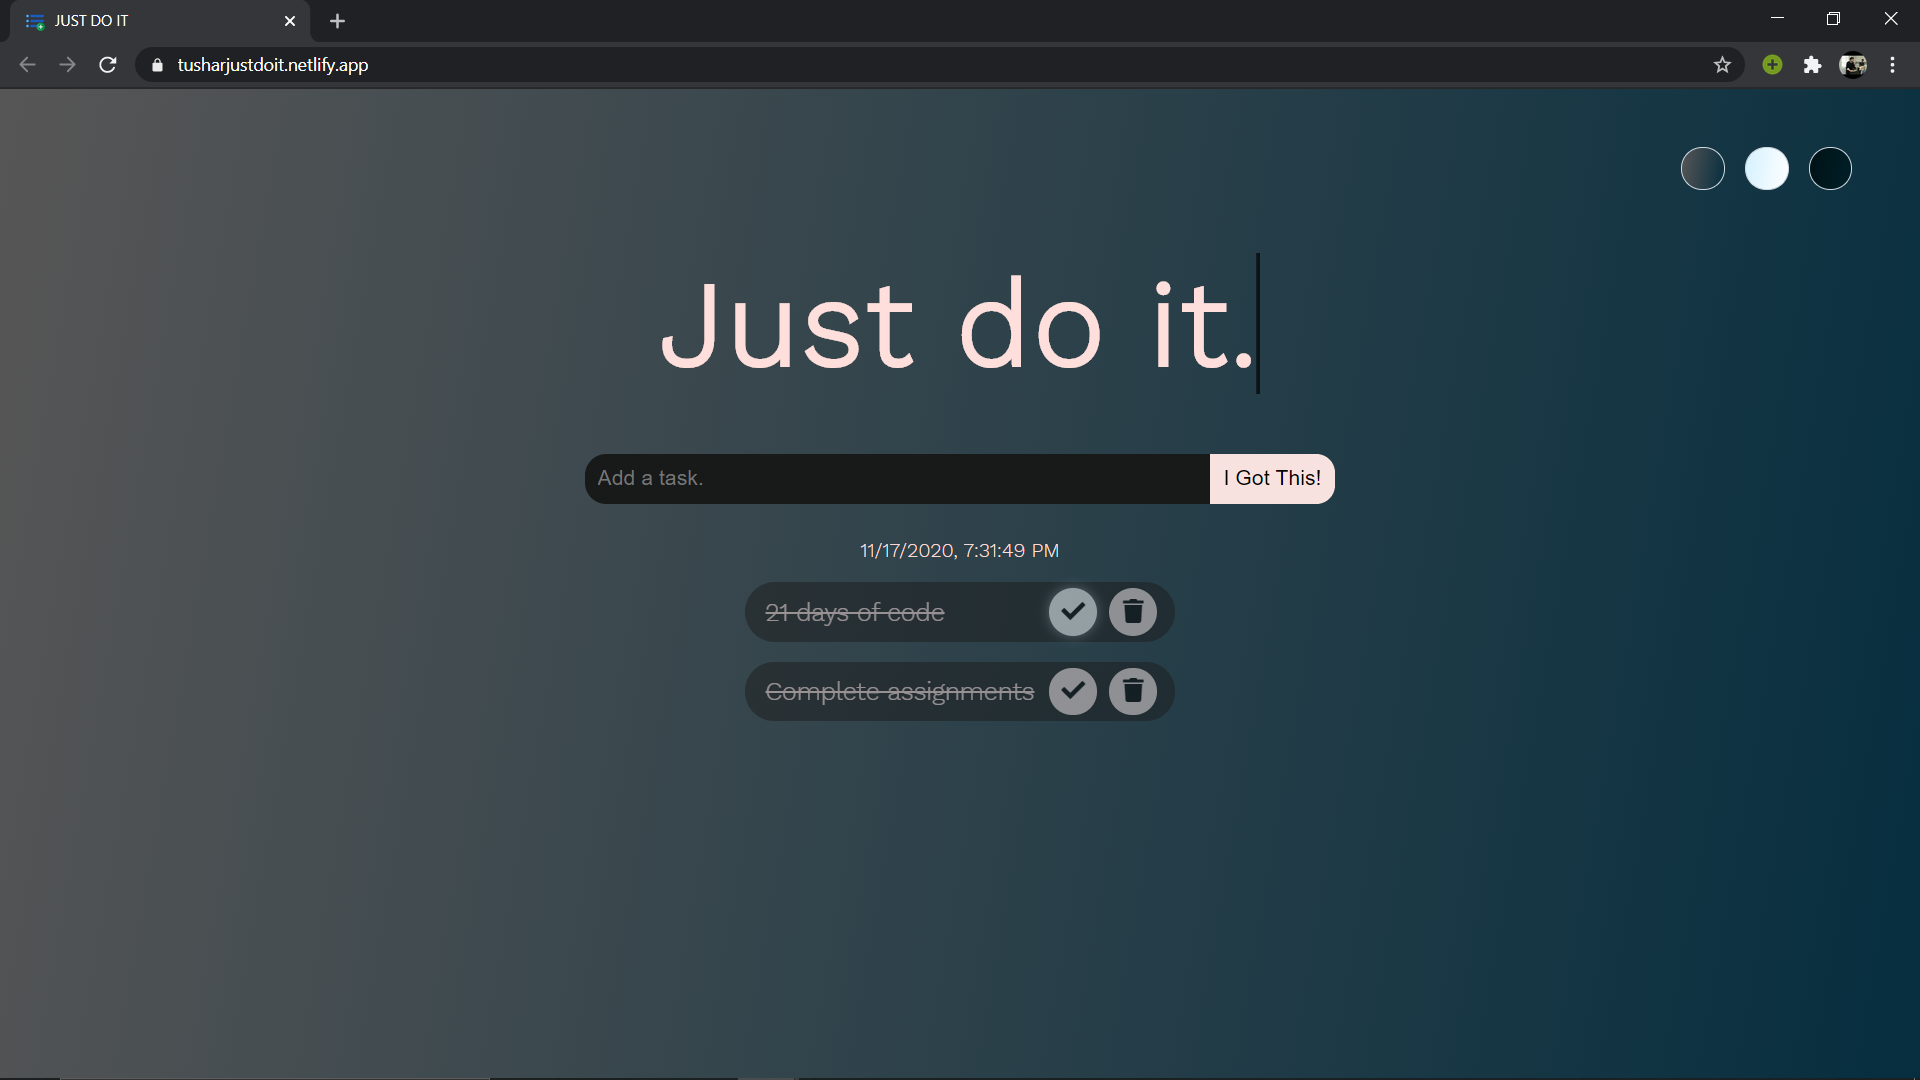
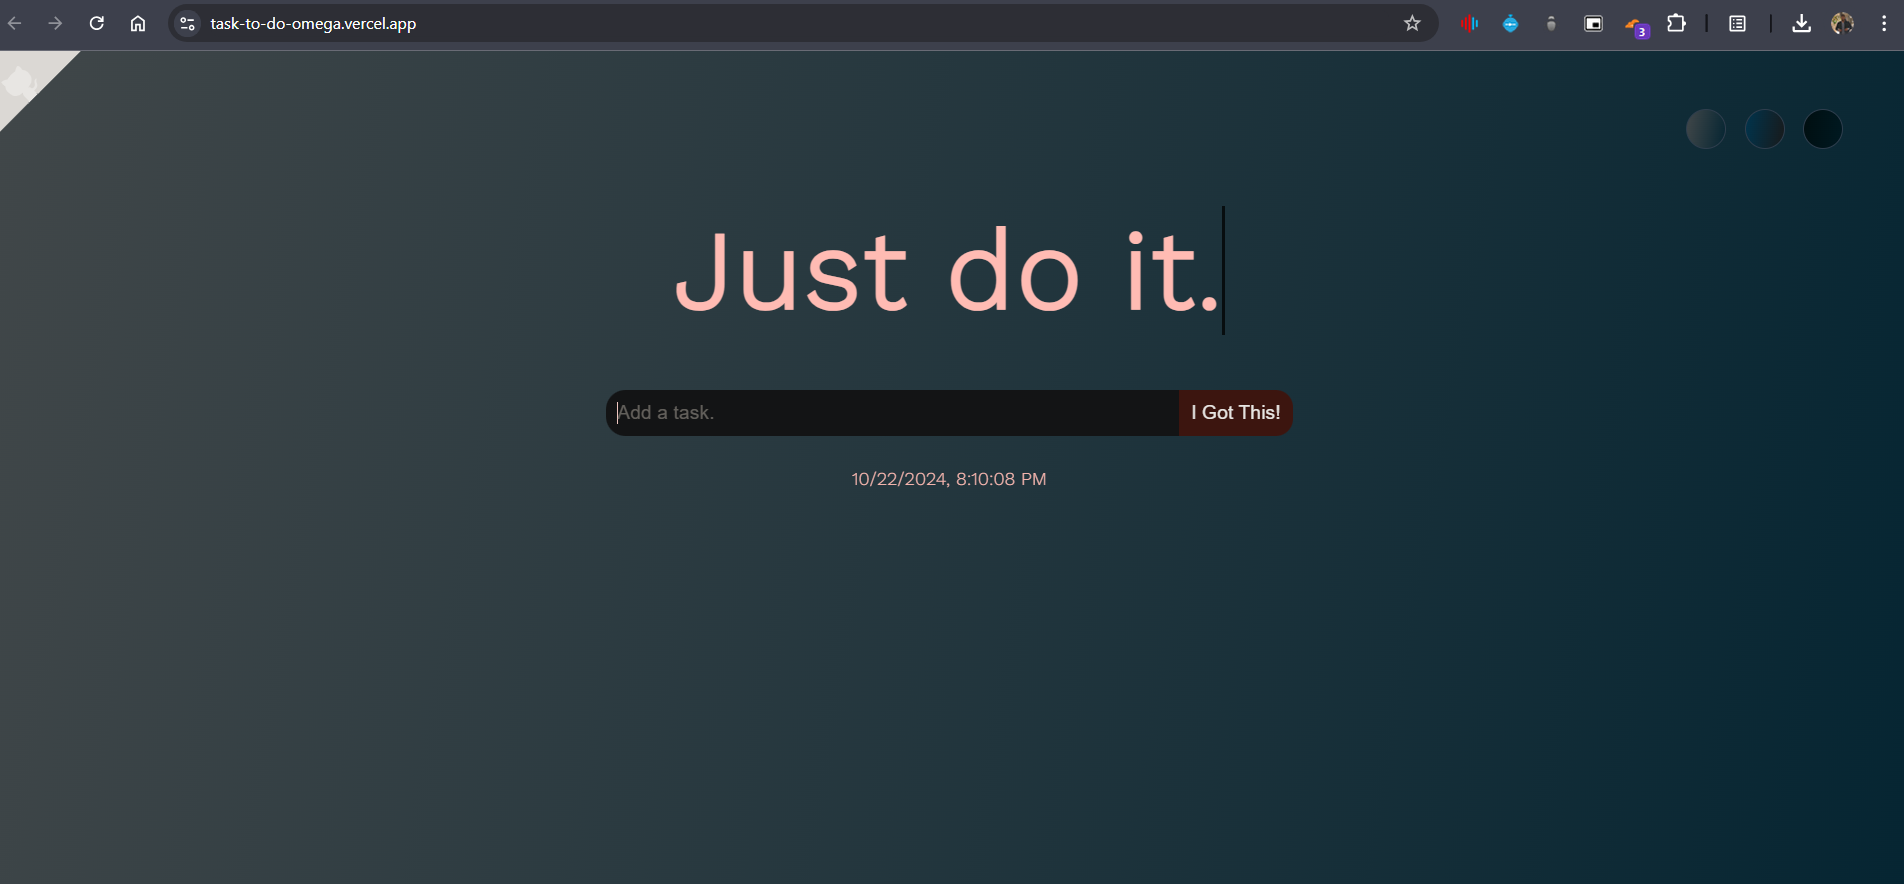
Deployed the To-Do

diff --git a/index.html b/index.html
@@ -15,7 +15,7 @@
     <link rel="shortcut icon" type="image/png" href="assets/favicon.png"/>
     <link rel="stylesheet" href="CSS/main.css">
     <link rel="stylesheet" href="CSS/corner.css">
-    <title>Task-List</title>
+    <title>Task-To-Do</title>
 
 </head>
 

diff --git a/README.md b/README.md
@@ -7,7 +7,7 @@
 
 ![ToDoList](https://socialify.git.ci/Krish3914/ToDoList/image?description=1&forks=1&issues=1&language=1&owner=1&pattern=Brick%20Wall&pulls=1&stargazers=1&theme=Dark)
 
-#### This web page is hosted [here!](https://tusharjustdoit.netlify.app/)
+#### This web page is hosted [here!](https://task-to-do-omega.vercel.app/)
 
 - View the local installation in the [CONTRUBUTING.md](https://github.com/Krish3914/ToDoList/blob/master/CONTRIBUTING.md).
 
